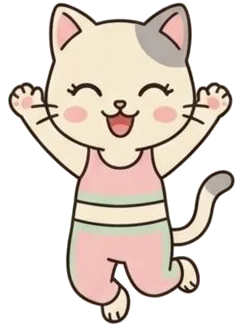
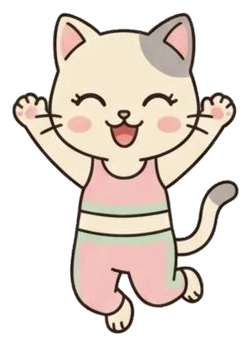
Hana v22: re-cut art with wider crops, 12px padding, de-haloed edges, separate ?/trophy prop layers; per-pose entrance + idle animations; greet while booked, low only on Pass and low-sessions link; sleep uses nobook art + welcome-back line

diff --git a/hana-app.html b/hana-app.html
@@ -136,6 +136,8 @@
   .dots { display:flex; gap:8px; margin:8px 0 4px; }
   .dots i { width:36px; height:10px; border-radius:999px; background:#eadfd4; display:block; }
   .dots i.on { background:var(--ox); }
+  .passpill.lowlink { display:inline-flex; align-items:center; gap:6px; border:0; font:inherit; font-size:12px; cursor:pointer; }
+  .passpill.lowlink img { height:22px; width:auto; }
   .passpill { display:inline-block; background:#fff; border-radius:999px; padding:4px 10px; font-size:12px; color:#7d6454; }
   button.friend { width:100%; cursor:pointer; font:inherit; text-align:left; color:inherit; }
   .dock { display:grid; grid-template-columns:1fr 1fr; gap:8px; margin:8px 0; }
@@ -368,26 +370,55 @@
   .who h1, .who .sub { margin: 0; }
   .tiny { font-size: 15px; color: var(--mute); margin: 0 0 8px; }
 
-  /* Hana: the member's real artwork, one image per state. Motion is transforms on the whole image only. */
-  .hw { position:relative; display:flex; align-items:flex-end; justify-content:center; width:96px; height:120px; flex:none; }
-  .hw img { position:absolute; bottom:0; left:50%; max-width:100%; max-height:100%; width:auto; height:auto; transform-origin:50% 100%; translate:-50% 0; -webkit-user-drag:none; user-select:none; pointer-events:none; }
+  /* Hana: the member's real artwork, one image per state (+ separate prop layers for ? and trophy).
+     Motion is transform/opacity only: a one-shot entrance when the state changes, then a looping idle per pose. */
+  .hw { position:relative; width:96px; height:120px; flex:none; }
   .hero .hw, .hana-stage .hw { width:220px; height:172px; margin:0 auto 8px; }
   .sayrow .hw { width:80px; height:96px; }
-  .hw .cur { animation:hin .35s ease both, var(--idle, hbob 2.8s ease-in-out .35s infinite); }
-  .hw .prev { animation:hout .35s ease both; }
-  @keyframes hin{from{opacity:0}to{opacity:1}} @keyframes hout{from{opacity:1}to{opacity:0}}
-  @keyframes hbob{0%,100%{transform:translateY(0)}50%{transform:translateY(-5px)}}
-  @keyframes hhop{0%,60%,100%{transform:translateY(0) scale(1)}10%{transform:scale(1.04,.96)}30%{transform:translateY(-16px) scale(.98,1.03)}50%{transform:translateY(0) scale(1.03,.97)}}
-  @keyframes hbreathe{0%,100%{transform:scale(1)}50%{transform:scale(1.02,1.035)}}
-  @keyframes hsway{0%,100%{transform:rotate(-2.5deg)}50%{transform:rotate(2.5deg)}}
-  @keyframes hsquash{0%,100%{transform:scale(1)}30%{transform:scale(1.08,.9)}60%{transform:scale(.96,1.05)}}
-  .hw[data-s=cheer] .cur, .hw[data-s=cleared] .cur { --idle: hhop 1.4s ease-in-out .35s infinite; }
-  .hw[data-s=calm] .cur, .hw[data-s=paused] .cur, .hw[data-s=low] .cur, .hw[data-s=nobook] .cur { --idle: hbreathe 4.5s ease-in-out .35s infinite; }
-  .hw[data-s=warmup] .cur { --idle: hsway 2.6s ease-in-out .35s infinite; }
-  .hw.tap .cur { animation:hsquash .45s ease; }
+  .hw .fig { position:absolute; inset:0; transform-origin:50% 100%; }
+  .hw img { position:absolute; bottom:0; left:50%; max-width:100%; max-height:100%; width:auto; height:auto; translate:-50% 0; -webkit-user-drag:none; user-select:none; pointer-events:none; }
+  .hw .prop { transform-origin:50% 50%; }
+  .hw .fig.prevfig { animation:hout .35s ease both !important; pointer-events:none; }
+  .hw .glow { position:absolute; left:8%; right:8%; top:6%; bottom:4%; border-radius:50%; background:radial-gradient(closest-side, rgba(181,224,203,.55), rgba(181,224,203,0)); opacity:0; pointer-events:none; }
   .hw .shadow{position:absolute;left:24%;right:24%;bottom:-3px;height:8px;border-radius:50%;background:rgba(74,59,54,.10)}
   .hana-stage .hw{cursor:pointer}
-  @media (prefers-reduced-motion:reduce){ .hw img{animation:none!important;transition:none!important} }
+  @keyframes hout{from{opacity:1}to{opacity:0}}
+  @keyframes hin{from{opacity:0;transform:translateY(6px) scale(.94)}to{opacity:1;transform:none}}
+  /* idle loops */
+  @keyframes hgreet{0%,100%{transform:translateY(0) rotate(0)}50%{transform:translateY(-4px) rotate(2deg)}}
+  @keyframes hsway{0%,100%{transform:rotate(-4deg)}50%{transform:rotate(4deg)}}
+  @keyframes hhop{0%,100%{transform:translateY(0) scale(1)}12%{transform:translateY(0) scale(1.05,.94)}40%{transform:translateY(-14px) scale(.97,1.04)}62%{transform:translateY(0) scale(1.06,.93)}76%{transform:translateY(0) scale(.99,1.01)}}
+  @keyframes hbreathe{0%,100%{transform:scale(1)}50%{transform:scale(1.03)}}
+  @keyframes hglow{0%,100%{opacity:.25}50%{opacity:.8}}
+  @keyframes htilt{0%,100%{transform:rotate(0)}50%{transform:rotate(-2.5deg)}}
+  @keyframes hpuzzle{0%,100%{transform:rotate(-2deg)}50%{transform:rotate(2deg)}}
+  @keyframes hqbob{0%,100%{transform:translateY(0) rotate(0)}50%{transform:translateY(-5px) rotate(6deg)}}
+  @keyframes hqpop{0%{opacity:0;transform:scale(0)}60%{opacity:1;transform:scale(1.15)}100%{opacity:1;transform:scale(1)}}
+  @keyframes hsigh{0%,100%{transform:scaleY(1)}50%{transform:scaleY(.97)}}
+  @keyframes hbounce{0%,100%{transform:translateY(0)}30%{transform:translateY(-6px)}55%{transform:translateY(0)}}
+  @keyframes hproud{0%,40%,100%{transform:translateY(0)}10%{transform:translateY(-9px)}20%{transform:translateY(0) scale(1.02,.98)}30%{transform:translateY(-6px)}}
+  @keyframes hwiggle{0%,100%{transform:rotate(0)}20%{transform:rotate(-8deg)}40%{transform:rotate(8deg)}60%{transform:rotate(-4deg)}80%{transform:rotate(0)}}
+  @keyframes hwinkpop{0%{transform:scale(1)}25%{transform:scale(1.08,.9)}50%{transform:scale(.95,1.06)}75%{transform:scale(1.02,.98)}100%{transform:scale(1)}}
+  .hw .fig { --idle: hgreet 3s ease-in-out infinite; animation: var(--idle); }
+  .hw .fig.enter { animation: hin .4s ease-out both, var(--idle-d, var(--idle)); animation-delay: 0s, .4s; }
+  .hw[data-s=greet] .fig { --idle: hgreet 3s ease-in-out infinite; }
+  .hw[data-s=warmup] .fig { --idle: hsway 2.8s ease-in-out infinite; }
+  .hw[data-s=cheer] .fig { --idle: hhop 1.2s ease-in-out infinite; }
+  .hw[data-s=calm] .fig { --idle: hbreathe 4s ease-in-out infinite; }
+  .hw[data-s=calm] .glow { animation: hglow 4s ease-in-out infinite; }
+  .hw[data-s=paused] .fig { --idle: htilt 4s ease-in-out infinite; }
+  .hw[data-s=paused] .prop { animation: hqbob 2.2s ease-in-out infinite; }
+  .hw[data-s=low] .fig { --idle: hsigh 4.5s ease-in-out infinite; }
+  .hw[data-s=nobook] .fig, .hw[data-s=sleep] .fig { --idle: hpuzzle 3.6s ease-in-out infinite; }
+  .hw[data-s=nobook] .prop, .hw[data-s=sleep] .prop { animation: hqpop .5s ease-out .3s both, hqbob 2.4s ease-in-out .8s infinite; }
+  .hw[data-s=book] .fig { --idle: hbounce 1.8s ease-in-out infinite; }
+  .hw[data-s=cleared] .fig { --idle: hproud 2.6s ease-in-out infinite; }
+  .hw[data-s=cleared] .prop { transform-origin:85% 22%; animation: hwiggle 2.6s ease-in-out infinite; }
+  .hw[data-s=wink] .fig { --idle: hwinkpop .5s ease-out 1; }
+  .hw[data-s=front] .fig { --idle: hgreet 3.4s ease-in-out infinite; }
+  .hw.tap .fig { animation: hwinkpop .5s ease-out 1 !important; }
+  .hw.tap .prop { visibility:hidden; }
+  @media (prefers-reduced-motion:reduce){ .hw .fig, .hw .prop, .hw .glow, .hw .prevfig { animation:none!important; transition:none!important; } .hw .prevfig{display:none} }
   @media (max-width: 960px) {
     .shell { grid-template-columns: 1fr; max-width: 430px; padding: 12px; }
     .phone { position: static; margin: 0 auto; width: 100%; max-width: 390px; }
@@ -492,16 +523,22 @@ function alert(k, t, d) { state.alerts.unshift({ k, t, d, when: "Just now", unre
 function studioName(s) { return s === "geumho" ? "Geumho" : "Cheongdam"; }
 function resetSession() { restore(["name", "phone", "password", "mode", "otpFor"]); }
 function esc(s) { return String(s).replace(/[&<>"]/g, c => ({"&":"&amp;","<":"&lt;",">":"&gt;","\"":"&quot;"}[c])); }
-const HANA_ART = { greet:"greet", warmup:"warmup", cheer:"cheer", calm:"calm", paused:"paused", cleared:"cleared", low:"low", nobook:"nobook", sleep:"paused", book:"book", wink:"wink", front:"front" };
+const HANA_ART = { greet:"greet", warmup:"warmup", cheer:"cheer", calm:"calm", paused:"paused", cleared:"cleared", low:"low", nobook:"nobook", sleep:"nobook", book:"book", wink:"wink", front:"front" };
+const HANA_PROP = { paused:"paused-q", nobook:"nobook-q", cleared:"cleared-trophy" };
 function hanaSrc(st) { return "assets/hana/" + (HANA_ART[st] || "front") + ".webp"; }
-/* Crossfade: when the state changed since the last render, the previous art fades out under the new one. */
-function hana(st) {
-  st = HANA_ART[st] ? st : "front";
-  const prev = hana.last && hana.last !== st ? `<img class="prev" src="${hanaSrc(hana.last)}" alt="">` : "";
-  hana.last = st;
-  return `<div class="hw" data-s="${st}" data-hana>${prev}<img class="cur" src="${hanaSrc(st)}" alt="Hana" draggable="false"><i class="shadow"></i></div>`;
+function hanaFig(st, cls) {
+  const art = HANA_ART[st] || "front", prop = HANA_PROP[art];
+  return `<div class="fig ${cls}"><img class="body" src="assets/hana/${art}.webp" alt="${cls === "prevfig" ? "" : "Hana"}" draggable="false">${prop ? `<img class="prop" src="assets/hana/${prop}.webp" alt="">` : ""}</div>`;
 }
-Object.keys(HANA_ART).forEach(k => { const i = new Image(); i.src = hanaSrc(k); });
+/* Entrance + crossfade when the state changed since the last render; otherwise just the pose's idle loop. */
+function hana(st) {
+  st = (window.__hanaForce) || (HANA_ART[st] ? st : "front");
+  const changed = hana.last !== st;
+  const prev = hana.last && changed ? hanaFig(hana.last, "prevfig") : "";
+  hana.last = st;
+  return `<div class="hw" data-s="${st}" data-hana><i class="glow"></i>${prev}${hanaFig(st, changed ? "enter" : "")}<i class="shadow"></i></div>`;
+}
+[...new Set([...Object.values(HANA_ART), ...Object.values(HANA_PROP)])].forEach(k => { const i = new Image(); i.src = "assets/hana/" + k + ".webp"; });
 /* Hana reacts to what the member is doing; derived from state, never chosen by hand. */
 function hanaState() {
   const b = state.booking && state.booking.studio === state.studio ? state.booking : null;
@@ -516,7 +553,6 @@ function hanaState() {
   if (state.arrived) return "cheer";                 /* checked in, shared or not, before the studio marks attended */
   if (isPaused()) return "paused";
   if (state.nudge || canHere()) return "warmup";
-  if (pass().left <= 3) return "low";
   return "greet";
 }
 function isPaused() { const b = state.booking && state.booking.studio === state.studio; return !!b && state.clock === "night" && !state.arrived; }
@@ -684,7 +720,7 @@ function today() {
   const dots = labels.map((l, i) => `<span class="dot4 ${doneSteps[i] ? "on" : ""}"><i></i>${l}</span>`).join("");
   const other = state.booking && state.booking.studio !== state.studio ? state.booking : null;
   const thread = (state.chat || []).filter(m => m.me || m.her).slice(-3).map(m => `<div class="bubble ${m.me ? "me" : "her"}">${m.me || m.her}</div>`).join("");
-  const line = paused ? "Board paused. Tomorrow is a new level." : other ? "Tonight is at " + studioName(other.studio) + "." : lines[step];
+  const line = hanaState() === "sleep" ? "Welcome back. Want a seat tonight?" : paused ? "Board paused. Tomorrow is a new level." : other ? "Tonight is at " + studioName(other.studio) + "." : lines[step];
   return `${topbar()}
     <div class="hana-stage"><div class="hana-bubble">${line}</div>${hana(hanaState())}</div>
     ${other ? `<button class="card press otherrow" type="button" data-act="open-other-class"><strong>You have class at ${studioName(other.studio)} · ${other.time}</strong><span class="what-sub">${other.className} · ${other.teacher} · open it ›</span></button>` : ""}
@@ -699,7 +735,7 @@ function today() {
       ${paused ? `<p class="sub" style="margin:8px 0 0">Check-in closed at 6:55pm. Streak unchanged.</p><button class="btn ghost" type="button" data-act="late-ask">Ask the studio</button>` : buttons[step]}
       ${boardMsg()}
     </div>
-    <p class="passpill">${studioName(state.studio)} · ${p.left} left</p>
+    ${p.left <= 3 ? `<button class="passpill lowlink" type="button" data-act="pass"><img src="assets/hana/low.webp" alt="">${studioName(state.studio)} · ${p.left} left ›</button>` : `<p class="passpill">${studioName(state.studio)} · ${p.left} left</p>`}
     <div class="thread">${thread}</div>`;
 }
 function streakScreen() {
@@ -867,6 +903,7 @@ function passScreen() {
     `<div class="card"><strong>${h.when} · ${h.time}</strong><p class="sub" style="margin:4px 0 0">${h.teacher} · attended</p></div>`).join("");
   return `<button class="link" type="button" data-act="tab-you">Back</button>
     <p class="kicker" style="margin-top:12px">${state.studio==="geumho"?"Geumho":"Cheongdam"}</p><h1>Pass</h1>
+    <div class="sayrow">${hana(p.left <= 3 ? "low" : "greet")}<div class="say">${p.left <= 3 ? p.left + " left, until " + p.until + ". Want to ask about extending?" : p.left + " left, until " + p.until + "."}</div></div>
     <div class="card balance"><div class="lbl">${p.name}</div><p class="count">${p.left}<small> / ${p.total}</small></p><p class="sub">Until ${p.until}</p>${meter()}</div>
     <div class="card"><div class="lbl">Previous</div><strong>10-session intro</strong><p class="sub" style="margin:0">Finished 2 Aug 2026 · 0 left</p></div>
     <p class="kicker">Usage</p>${used || `<div class="card"><p class="sub" style="margin:0">No visits yet.</p></div>`}
@@ -1246,7 +1283,7 @@ document.getElementById("view").addEventListener("pointerdown", (e) => {
 function wire() {
   document.getElementById("view").onclick = (e) => {
     const h = e.target.closest("[data-hana]");
-    if (h) { if (hana.long) { hana.long = false; return; } const img = h.querySelector(".cur"), back = img.getAttribute("src"); clearTimeout(h.wt); h.querySelector(".prev")?.remove();
+    if (h) { if (hana.long) { hana.long = false; return; } const img = h.querySelector(".fig:not(.prevfig) .body"), back = img.getAttribute("src"); clearTimeout(h.wt); h.querySelector(".prevfig")?.remove();
       img.src = hanaSrc("wink"); h.classList.remove("tap"); void h.offsetWidth; h.classList.add("tap");
       h.wt = setTimeout(() => { if (img.isConnected) img.src = back; h.classList.remove("tap"); }, 1200); return; }
     const btn = e.target.closest("[data-act]"); if (!btn) return;
